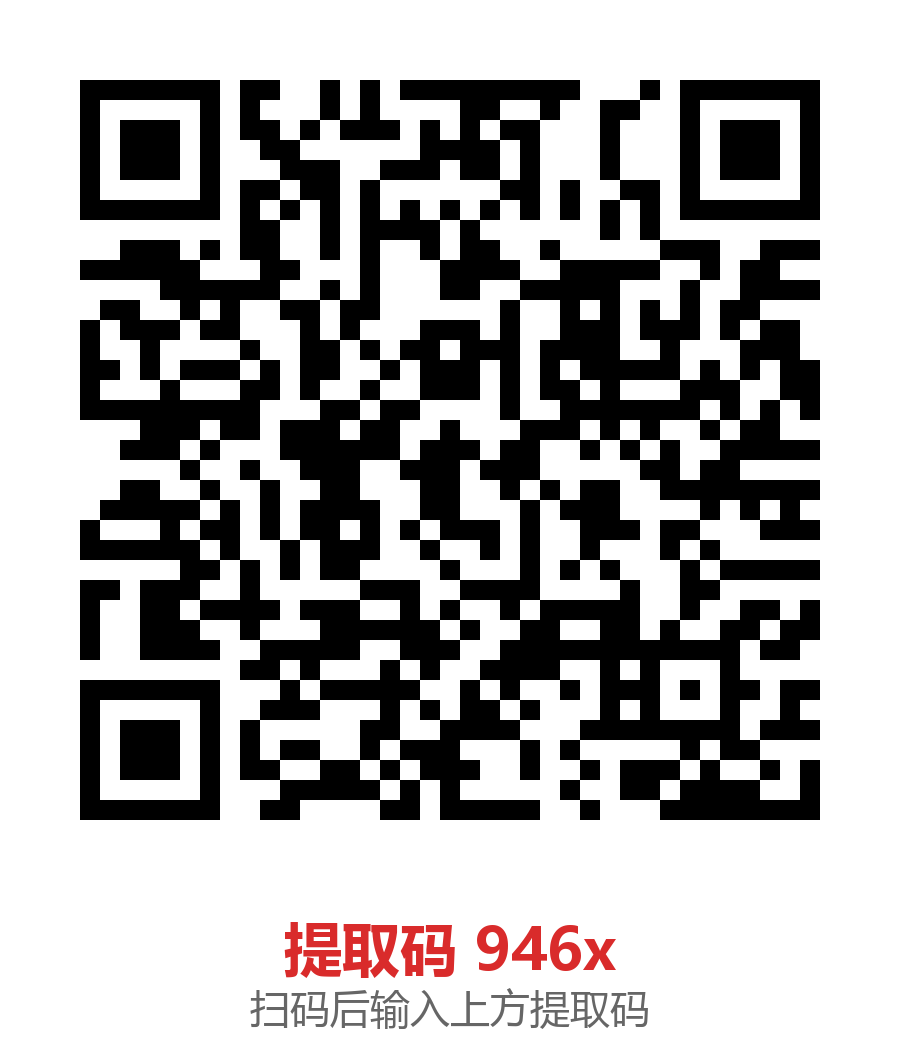
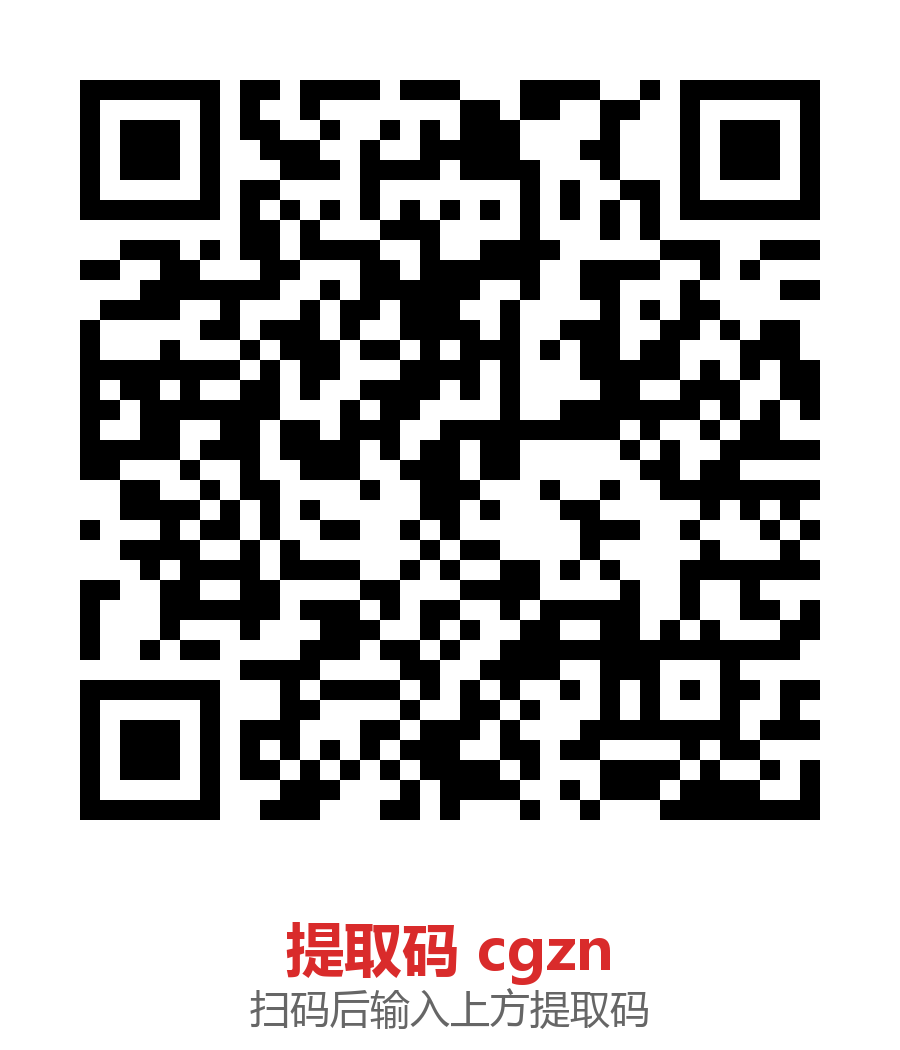
蓝奏云换包 1.2.1：更新下载链接与提取码，重做二维码和推广图

diff --git a/docs/index.html b/docs/index.html
@@ -88,8 +88,8 @@
       <img src="qr-lanzou.png" alt="蓝奏云二维码" width="92" height="92" style="border-radius:8px;flex:0 0 auto">
       <div>
         <b>蓝奏云</b>
-        <p style="margin-top:4px">扫码或点链接下载，<b>提取码 946x</b></p>
-        <p style="margin-top:6px"><a href="https://wwazc.lanzoum.com/iS5Rr4fz68hg" style="color:#2563eb">wwazc.lanzoum.com/iS5Rr4fz68hg</a></p>
+        <p style="margin-top:4px">扫码或点链接下载，<b>提取码 cgzn</b></p>
+        <p style="margin-top:6px"><a href="https://wwazc.lanzoum.com/iamxM4g1rd4b" style="color:#2563eb">wwazc.lanzoum.com/iamxM4g1rd4b</a></p>
       </div>
     </div>
     <div class="card">
